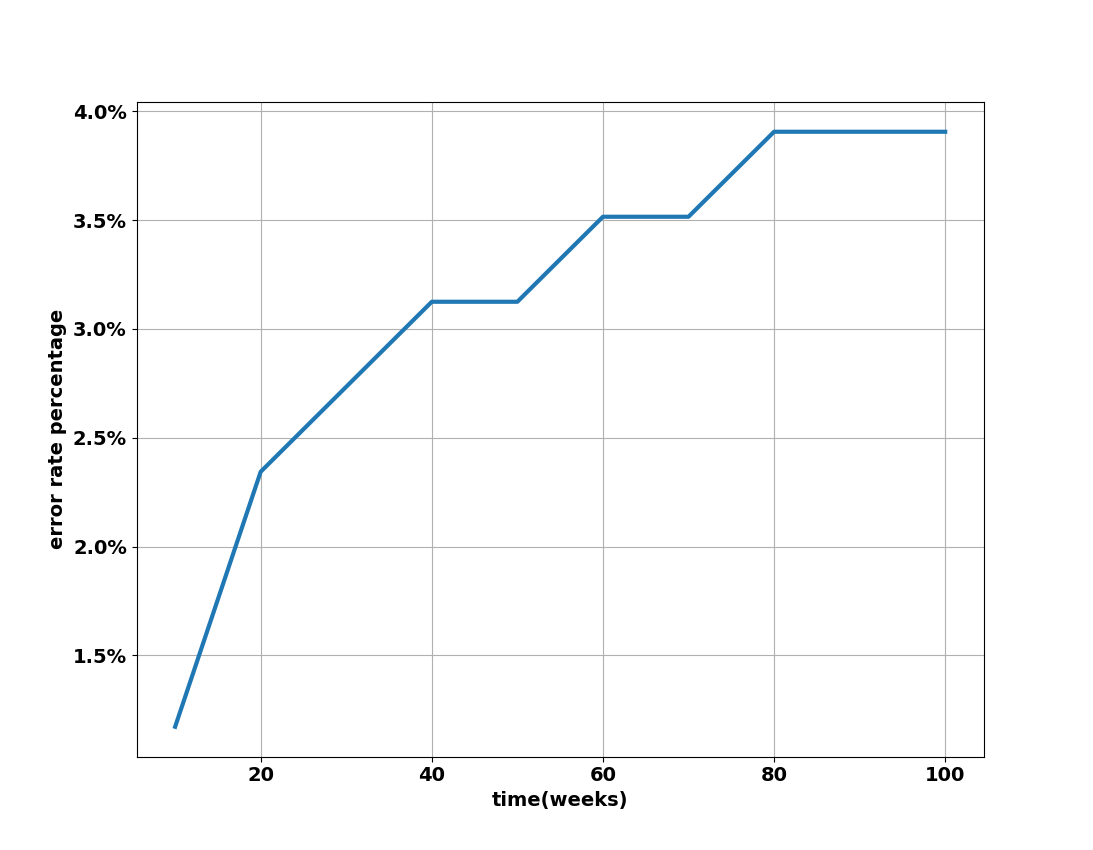
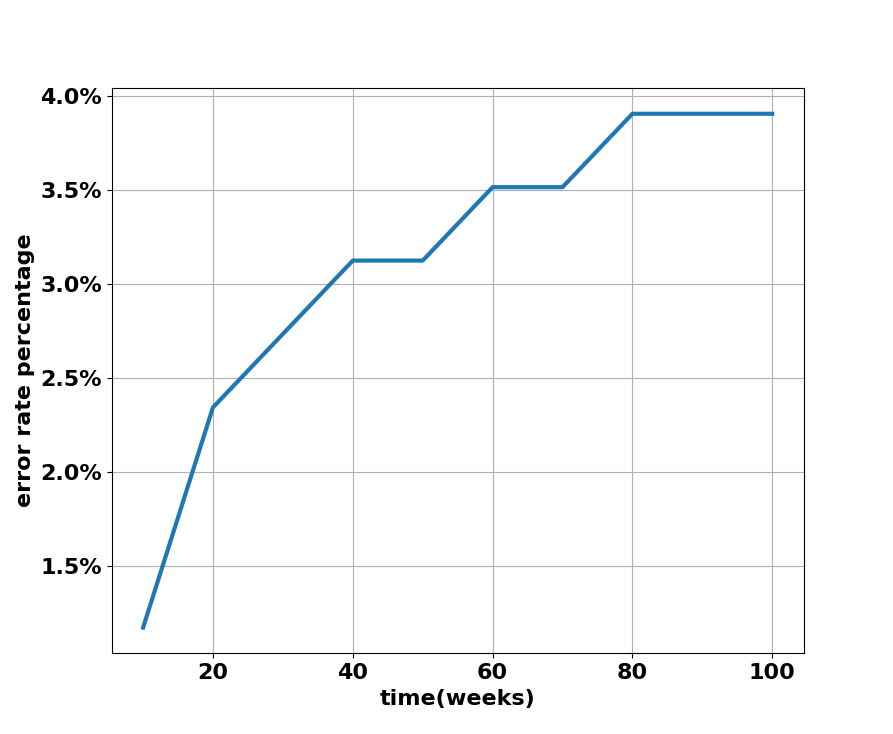
fix error_rate plot

diff --git a/cadence-4bitMultiplier/process_raw_error_rate.py b/cadence-4bitMultiplier/process_raw_error_rate.py
@@ -5,7 +5,7 @@ from matplotlib.ticker import MultipleLocator, FormatStrFormatter, FuncFormatter
 
 
 # just modify plot fig
-EXPAND_TIME_FACTOR = 2
+EXPAND_TIME_FACTOR = 1
 
 
 def filter_data(data):
@@ -75,11 +75,12 @@ for t_week in range(10, 100+1, 10):
 time = [t*EXPAND_TIME_FACTOR for t in time]
 
 plt.plot(time, error_rate_percent, label="", linewidth=3)
-plt.xlabel("time(weeks)", fontsize=14, fontweight='bold')
-plt.xticks(fontsize=14, fontweight='bold')
 
-plt.ylabel('error rate percentage', fontsize=14, fontweight='bold')
-plt.yticks(fontsize=14, fontweight='bold')
+plt.xlabel("time(weeks)", fontsize=16, fontweight='bold')
+plt.xticks(fontsize=16, fontweight='bold')
+
+plt.ylabel('error rate percentage', fontsize=16, fontweight='bold')
+plt.yticks(fontsize=16, fontweight='bold')
 # plt.gca().yaxis.set_major_formatter(mticker.PercentFormatter())
 # plt.gca().yaxis.set_major_formatter(FormatStrFormatter('%.1f'))
 plt.gca().yaxis.set_major_formatter(FuncFormatter(lambda x, pos: f"{x}%"))
